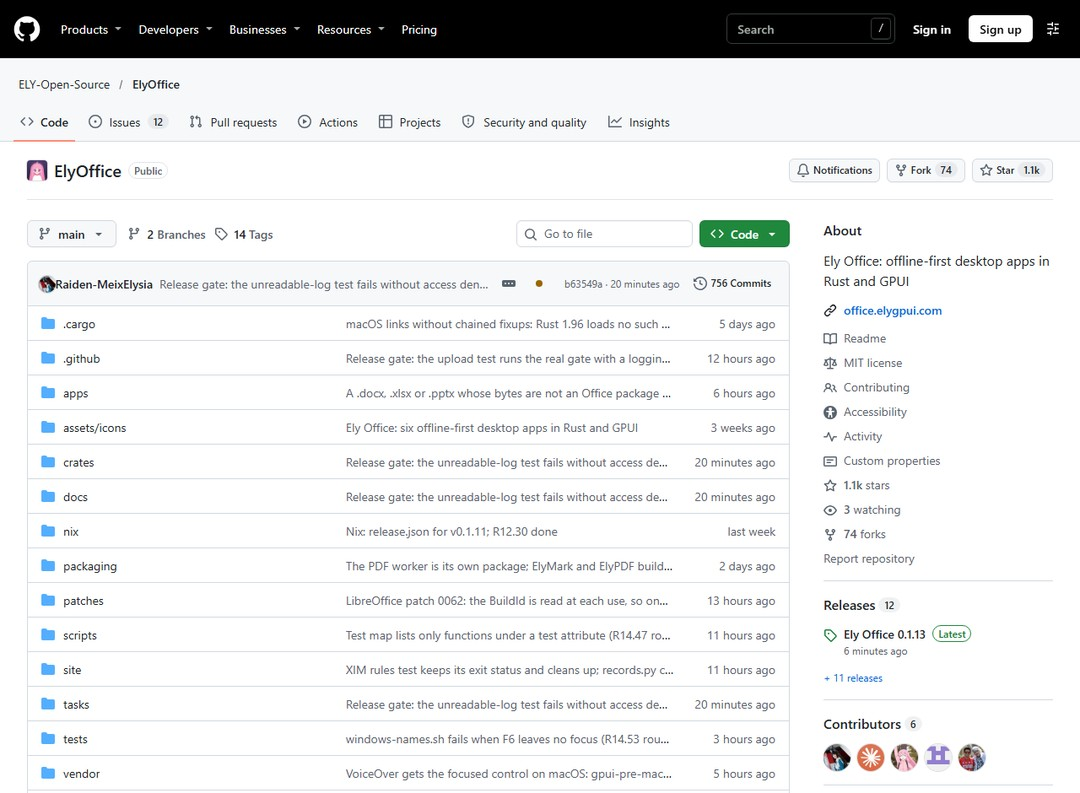
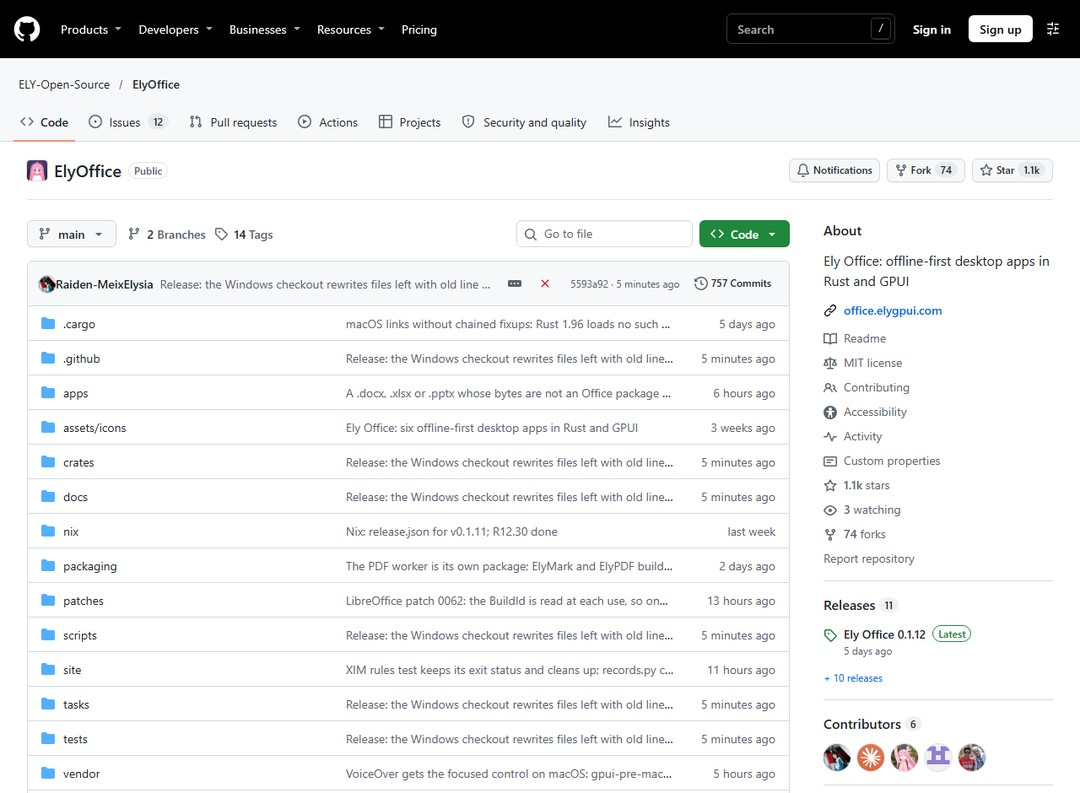
update: 20261031 elyoffice v2 (repo shot, numbers/versions cards, preview)

diff --git a/previews/20261031-elyoffice.html b/previews/20261031-elyoffice.html
@@ -3,7 +3,7 @@
 <head>
 <meta charset="utf-8">
 <meta name="viewport" content="width=device-width, initial-scale=1">
-<title>不联网、不要账号：12 天 1,100 星的七个办公软件，文件一步没离开你的电脑【附上手小抄】 · 预览页</title>
+<title>不联网、不要账号：11 天 1,100 星的七个办公软件，文件一步没离开你的电脑【附上手小抄】 · 预览页</title>
 <style>
   /* 仅本地预览用；复制进公众号的是 #article 的内联样式（已全部内联） */
   body { font-family: system-ui, -apple-system, "PingFang SC", "Microsoft YaHei", sans-serif; }
@@ -43,21 +43,21 @@
 
   <p style="margin:0 0 24px;font-size:17px;color:rgba(0,0,0,0.9);line-height:31px;">不是不会看。是这份文件接下来要去哪儿：在线文档、AI 对话框、某个「智能审合同」的小网站。每转一手，就多一个人可能看见。</p>
 
-  <p style="margin:0 0 24px;font-size:17px;color:rgba(0,0,0,0.9);line-height:31px;">最后我找到了个折中的办法，也顺手挖到一个项目。12 天，<strong style="font-weight:500;">1,100 多星</strong>。</p>
+  <p style="margin:0 0 24px;font-size:17px;color:rgba(0,0,0,0.9);line-height:31px;">最后我找到了个折中的办法，也顺手挖到一个项目。11 天，<strong style="font-weight:500;">1,100 多星</strong>。</p>
 
-  <img src="https://cdn.jsdelivr.net/gh/zhaoyanan-pixe/wechat-assets@main/articles/20261031-elyoffice/fig1-repo.jpg" alt="" style="width:100%;border-radius:6px;display:block;margin:17px 0 8px;">
+  <img src="https://cdn.jsdelivr.net/gh/zhaoyanan-pixe/wechat-assets@main/articles/20261031-elyoffice/fig1-repo-v2.jpg" alt="" style="width:100%;border-radius:6px;display:block;margin:17px 0 8px;">
 
-  <p style="margin:0 0 24px;font-size:14px;color:rgba(0,0,0,0.3);line-height:25px;text-align:center;">仓库页：MIT 协议，756 次提交，12 个发布版本，1,123 星（来源：GitHub 仓库页，2026-10-31 08:02 截图）</p>
+  <p style="margin:0 0 24px;font-size:14px;color:rgba(0,0,0,0.3);line-height:25px;text-align:center;">仓库页：MIT 协议，1,123 星，74 个 fork，11 个发布版本（来源：GitHub 仓库页，2026-10-31 08:18 截图）</p>
 
   <p style="margin:0 0 12px;font-size:20px;font-weight:500;color:#2B77BF;line-height:36px;text-align:center;">七个软件，装在一个安装包里</p>
 
-  <p style="margin:0 0 24px;font-size:17px;color:rgba(0,0,0,0.9);line-height:31px;">它叫 Ely Office，MIT 协议，10 月 19 号建仓，今天是第 12 天。</p>
+  <p style="margin:0 0 24px;font-size:17px;color:rgba(0,0,0,0.9);line-height:31px;">它叫 Ely Office，MIT 协议。仓库是 10 月 19 号深夜建的（换成北京时间是 20 号凌晨），到今天 11 天。</p>
 
   <p style="margin:0 0 24px;font-size:17px;color:rgba(0,0,0,0.9);line-height:31px;">七个应用：ElyDoc 管文档，ElyTable 管表格，ElyShow 管演示，ElyPDF 管 PDF，ElyMail 管邮件，ElyTree 管 Git，ElyMark 管 Markdown。</p>
 
   <p style="margin:0 0 24px;font-size:17px;color:rgba(0,0,0,0.9);line-height:31px;">官网那句话比我会说：七个桌面应用，断网也能用。</p>
 
-  <p style="margin:0 0 24px;font-size:17px;color:rgba(0,0,0,0.9);line-height:31px;">一个安装包，七个都在里面。官网首页的下载计数器，今天早上八点零五是 70,817 次。</p>
+  <p style="margin:0 0 24px;font-size:17px;color:rgba(0,0,0,0.9);line-height:31px;">一个安装包，七个都在里面。官网自己的数据文件里记的下载量，今天早上是 70,817 次。</p>
 
   <img src="https://cdn.jsdelivr.net/gh/zhaoyanan-pixe/wechat-assets@main/articles/20261031-elyoffice/fig2-site.jpg" alt="" style="width:100%;border-radius:6px;display:block;margin:17px 0 8px;">
 
@@ -99,7 +99,7 @@
 
   <p style="margin:0 0 12px;font-size:20px;font-weight:500;color:#2B77BF;line-height:36px;text-align:center;">一个我没想到的设计：让本机的 AI 来改</p>
 
-  <p style="margin:0 0 24px;font-size:17px;color:rgba(0,0,0,0.9);line-height:31px;">0.1.12 加了个功能：表格开着的时候，别的程序能通过命令行读、写单元格，地址写成 Sheet1!A1 这样。文档和演示后来也跟上了，README 里三套命令都齐。</p>
+  <p style="margin:0 0 24px;font-size:17px;color:rgba(0,0,0,0.9);line-height:31px;">0.1.12 的更新说明里写着：表格开着的时候，别的程序能通过命令行读、写单元格，地址写成 Sheet1!A1 这样。文档和演示后来也跟上了，README 里三套命令都齐。</p>
 
   <p style="margin:0 0 24px;font-size:17px;color:rgba(0,0,0,0.9);line-height:31px;">官方写得很克制：读写不动你的光标和选区，一次写入是一步撤销，只有同一用户、在本机的程序才连得上。</p>
 
@@ -119,17 +119,17 @@
 
   <p style="margin:0 0 24px;font-size:17px;color:rgba(0,0,0,0.9);line-height:31px;">Markdown 超过 2 MiB 只给源码；Git 不做交互式变基和硬重置；带宏的文件进「风险模式」，只能另存副本。</p>
 
-  <p style="margin:0 0 24px;font-size:17px;color:rgba(0,0,0,0.9);line-height:31px;">还有个现实问题：最新的 0.1.13 是 10 月 30 号发的，只发了 Linux 包；Windows 和 macOS 的安装包还停在 10 月 26 号的 0.1.12，官网下载按钮给的也是 0.1.12。</p>
+  <p style="margin:0 0 24px;font-size:17px;color:rgba(0,0,0,0.9);line-height:31px;">还有个现实问题，我今早正好撞上：0.1.13 这一版是 10 月 30 号深夜发的，我八点零一查还在，十分钟后再查，已经没了，Releases 页退回 10 月 26 号的 0.1.12。官网数据文件里写的也是 0.1.12。</p>
 
   <p style="margin:0 0 24px;font-size:17px;color:rgba(0,0,0,0.9);line-height:31px;">它的验证机写的是 Windows 11 x64。Win10 没在清单里，这条我不替它保证。</p>
 
-  <img src="https://cdn.jsdelivr.net/gh/zhaoyanan-pixe/wechat-assets@main/articles/20261031-elyoffice/fig5-versions.png" alt="" style="width:100%;border-radius:6px;display:block;margin:17px 0 8px;">
+  <img src="https://cdn.jsdelivr.net/gh/zhaoyanan-pixe/wechat-assets@main/articles/20261031-elyoffice/fig5-versions-v2.png" alt="" style="width:100%;border-radius:6px;display:block;margin:17px 0 8px;">
 
-  <p style="margin:0 0 24px;font-size:14px;color:rgba(0,0,0,0.3);line-height:25px;text-align:center;">下载前先看清版本和平台（来源：GitHub Releases、官网首页、docs/compatibility.md；本号制图）</p>
+  <p style="margin:0 0 24px;font-size:14px;color:rgba(0,0,0,0.3);line-height:25px;text-align:center;">下载前先看清版本和平台（来源：GitHub Releases 与 tags、官网 release.json；本号制图）</p>
 
-  <img src="https://cdn.jsdelivr.net/gh/zhaoyanan-pixe/wechat-assets@main/articles/20261031-elyoffice/fig3-numbers.png" alt="" style="width:100%;border-radius:6px;display:block;margin:17px 0 8px;">
+  <img src="https://cdn.jsdelivr.net/gh/zhaoyanan-pixe/wechat-assets@main/articles/20261031-elyoffice/fig3-numbers-v2.png" alt="" style="width:100%;border-radius:6px;display:block;margin:17px 0 8px;">
 
-  <p style="margin:0 0 24px;font-size:14px;color:rgba(0,0,0,0.3);line-height:25px;text-align:center;">四个数字看它（数据：GitHub API 2026-10-31 08:00、官网下载计数器 08:05、项目 README；本号制图）</p>
+  <p style="margin:0 0 24px;font-size:14px;color:rgba(0,0,0,0.3);line-height:25px;text-align:center;">四个数字看它（数据：GitHub API 2026-10-31 08:18、官网 release.json、项目 README；本号制图）</p>
 
   <p style="margin:0 0 12px;font-size:20px;font-weight:500;color:#2B77BF;line-height:36px;text-align:center;">我的判断</p>
 
@@ -143,7 +143,7 @@
 
   <p style="margin:0 0 24px;font-size:17px;color:#2B77BF;line-height:31px;">项目地址：github.com/ELY-Open-Source/ElyOffice（MIT 协议，官网 office.elygpui.com）</p>
 
-  <p style="margin:0 0 24px;font-size:17px;color:#2B77BF;line-height:31px;">数据与素材来源：GitHub API（2026-10-31 08:00：1,123 星、74 fork、756 次提交、12 个发布版本，仓库创建于 2026-10-19）、官网首页下载计数器（2026-10-31 08:05，70,817 次）、项目 README 与 docs/help.md、docs/compatibility.md（0.1.11 版兼容清单）、GitHub Releases 页面；配图：仓库页与官网真实截图 2 张、本号自制卡 3 张。</p>
+  <p style="margin:0 0 24px;font-size:17px;color:#2B77BF;line-height:31px;">数据与素材来源：GitHub API（2026-10-31 08:18：1,123 星、74 fork、757 次提交、11 个发布版本、14 个 tag，仓库创建于 2026-10-19 23:04 UTC）、官网 release.json（08:19 实取：version 0.1.12、downloads 70,817）、项目 README 与 docs/help.md、docs/compatibility.md（0.1.11 版兼容清单）、GitHub Releases 与 tags 页面（0.1.13 在 08:01 可见、08:14 起 404）；配图：仓库页与官网真实截图 2 张、本号自制卡 3 张。</p>
 
   <p style="margin:0 0 24px;font-size:17px;color:#2B77BF;line-height:31px;">你电脑里有没有那种「绝对不敢往云上放」的文件？评论区聊聊，说不定就是下一期的选题。</p>
 
